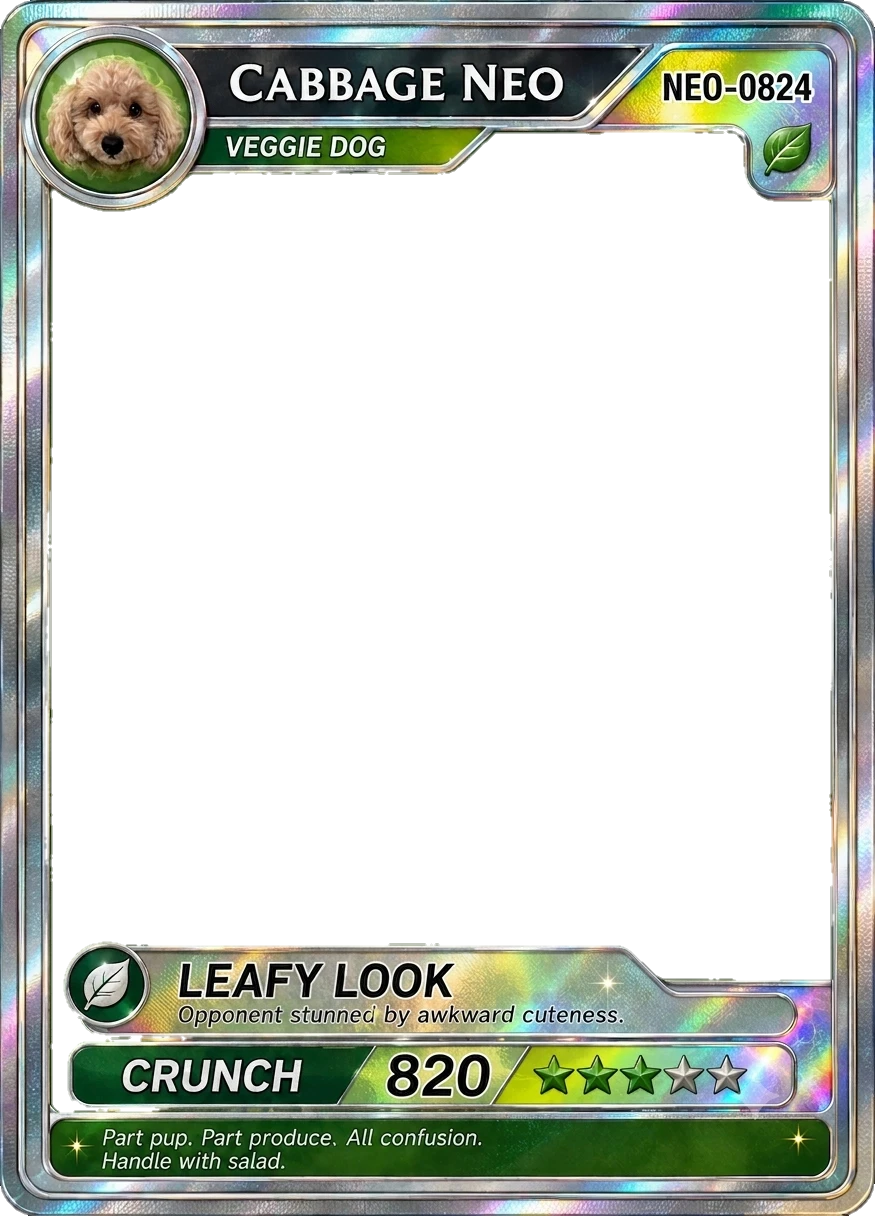
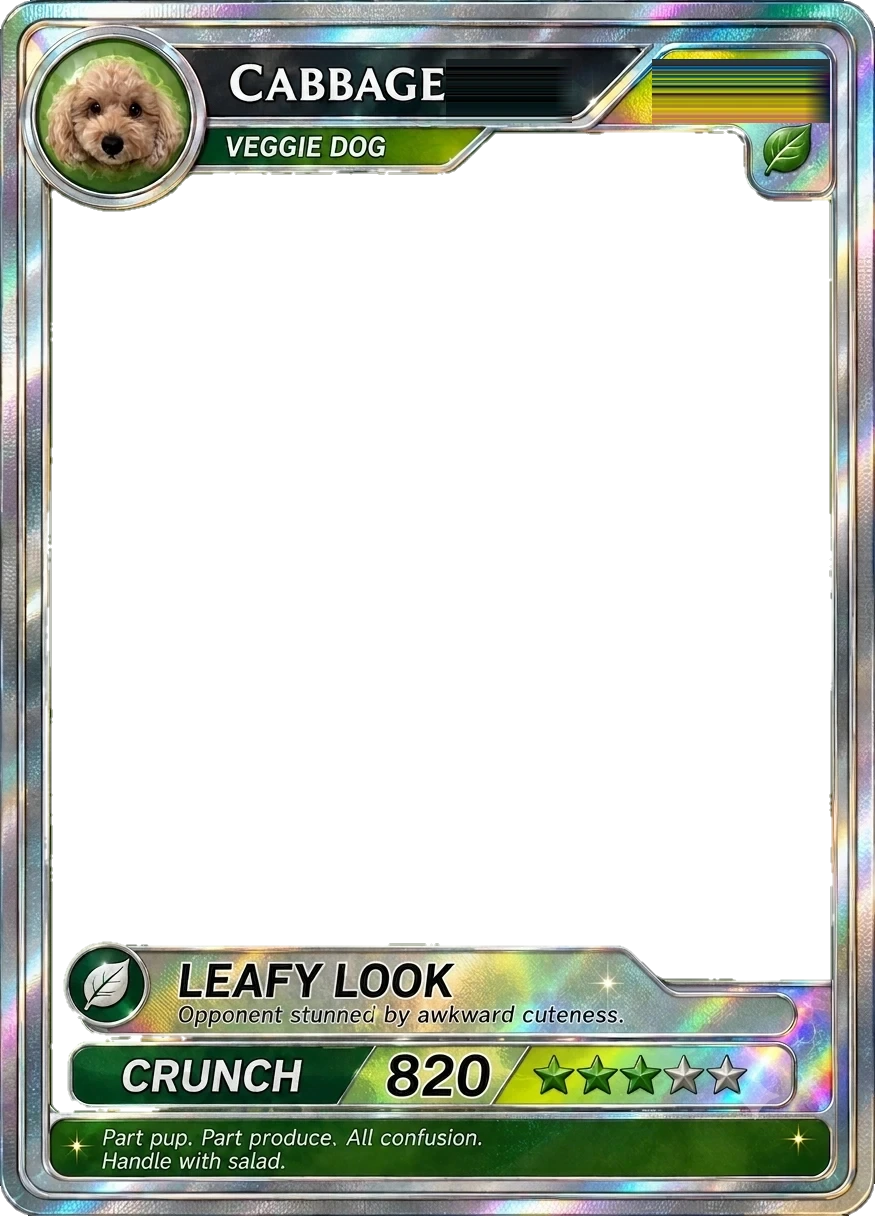
카드가 녹는 동안 창틀의 저쪽 글자가 비치던 것
진입 연출은 카드가 녹으면서 그 아래 창틀이 드러나는 그림이다. 카드는 우리 것으로
바꿨는데 창틀에는 SWEET POTATO NEO 와 NEO-0824 가 그대로 박혀 있어서, 녹는 1초 남짓
동안 저쪽 글자가 비쳤다.

창틀 세 장에서 그 두 자리를 지우고, 앱이 같은 자리에 우리 글자를 얹는다.

## 자리는 손으로 쟀다

창틀은 카드와 크기도 비율도 다른 별도 렌더라(고구마 창틀 1067x1474 vs 카드 816x1125)
CardSlots.kt 의 좌표를 그대로 못 쓴다.

자동으로 찾아보려다 접었다. 은색 프레임의 가로 레일이 글자만큼 밝아서 낱말이 뭉치거나
쪼개졌다 - 상추만 제대로 잡혔다. 눈금을 얹어 놓고 읽는 편이 빨랐다. 셋뿐이다.

지우는 방법은 name_slot.py 와 같다. 왼쪽 여러 칸 중 가장 어두운 색을 오른쪽으로 늘인다.
한 칸만 보면 야채 글자의 흰 번짐이 걸려 지운 자리가 하얘지고 흰 글씨가 묻힌다.

## 자리가 맞는 근거

창틀은 카드 자리에 카드 크기로 그려진다. 둘의 비율이 사실상 같아서(고구마 0.724 vs
0.725, 배추 0.719 vs 0.720, 상추 0.800 vs 0.800) 창틀 기준 % 가 그대로 맞는다.
지운 자리에 같은 % 로 글자를 얹어 CABBAGE 네옹 · DG-0315 가 되는 것을 확인했다.

assembleRelease / testDebugUnitTest 통과.

Changed region(s): [[0.7406, 0.0312, 0.9566, 0.125], [0.4937, 0.0312, 0.648, 0.125]]

diff --git a/app/src/main/java/com/daengs/app/ui/dex/Immersive.kt b/app/src/main/java/com/daengs/app/ui/dex/Immersive.kt
@@ -4,6 +4,7 @@ import androidx.compose.ui.graphics.ImageBitmap
 import com.daengs.app.ui.dogcard.CardFace
 import com.daengs.app.ui.dogcard.CardTemplate
 import com.daengs.app.ui.dogcard.Hole
+import com.daengs.app.ui.dogcard.Slot
 import androidx.compose.animation.core.LinearEasing
 import androidx.compose.animation.core.animateFloatAsState
 import androidx.compose.animation.core.infiniteRepeatable
@@ -74,6 +75,15 @@ data class ImmersiveScene(
      * 녹으면 드러나서 **창틀**이 된다. 없으면(`null`) 예전처럼 카드가 녹기만 한다.
      */
     val frame: String?,
+    /**
+     * 창틀에 우리 글자를 찍을 자리. **창틀 크기 대비 %** 다.
+     *
+     * 카드의 자리를 그대로 못 쓴다 — 창틀은 카드와 크기도 비율도 다른 별도 렌더다
+     * (고구마 창틀 1067x1474 vs 카드 816x1125). `tools/punch_card_frame.py` 가
+     * 저쪽 글자를 지우면서 같은 값을 쓴다.
+     */
+    val frameName: Slot? = null,
+    val frameCode: Slot? = null,
     /**
      * 배경음. `assets/` 아래 경로이고, null 이면 무음이다.
      *
@@ -179,6 +189,8 @@ val CABBAGE_SCENE = ImmersiveScene(
     subject = "neo-hologram/art/cabbage-subject.webp",
     card = "neo-hologram/art/cabbage-card.webp",
     frame = "neo-hologram/art/cabbage-card-frame.webp",
+    frameName = Slot(51.5f, 5.2f, 65.0f, 9.8f),
+    frameCode = Slot(75.0f, 5.2f, 94.5f, 9.8f),
     bgm = bgmFor("cabbage"),
     window = ImmersiveScene.Win(4.91f, 10.28f, 90.51f, 81.58f),
     fit = ImmersiveScene.Fit(6.06f, 14.15f, 87.43f, 62.70f),
@@ -206,6 +218,8 @@ val SWEET_POTATO_SCENE = ImmersiveScene(
     subject = "neo-hologram/art/sweet-potato-subject.webp",
     card = "neo-hologram/art/sweet-potato-card.webp",
     frame = "neo-hologram/art/sweet-potato-card-frame.webp",
+    frameName = Slot(58.8f, 5.2f, 70.0f, 9.8f),
+    frameCode = Slot(73.5f, 5.2f, 93.0f, 9.8f),
     bgm = bgmFor("sweet-potato"),
     window = ImmersiveScene.Win(6.28f, 10.85f, 88.57f, 81.61f),
     fit = ImmersiveScene.Fit(11.52f, 14.93f, 80.02f, 62.84f),
@@ -235,6 +249,8 @@ val LETTUCE_SCENE = ImmersiveScene(
     subject = "neo-hologram/art/lettuce-subject.webp",
     card = "neo-hologram/art/lettuce-card.webp",
     frame = "neo-hologram/art/lettuce-card-frame.webp",
+    frameName = Slot(53.8f, 5.4f, 67.0f, 9.4f),
+    frameCode = Slot(75.5f, 5.2f, 95.0f, 9.4f),
     bgm = bgmFor("lettuce"),
     window = ImmersiveScene.Win(5.17f, 11.55f, 90.46f, 76.39f),
     fit = ImmersiveScene.Fit(11.22f, 15.47f, 80.33f, 62.13f),

diff --git a/app/src/main/java/com/daengs/app/ui/dex/ImmersiveScreen.kt b/app/src/main/java/com/daengs/app/ui/dex/ImmersiveScreen.kt
@@ -2,6 +2,7 @@ package com.daengs.app.ui.dex
 
 import com.daengs.app.ui.dogcard.drawInHoleOf
 import com.daengs.app.ui.dogcard.drawPersonalCardAt
+import com.daengs.app.ui.dogcard.drawSlotTextAt
 import androidx.activity.compose.BackHandler
 import androidx.compose.animation.core.LinearEasing
 import androidx.compose.animation.core.RepeatMode
@@ -339,15 +340,18 @@ private fun DrawScope.drawStage(
             win.cx + (cardPos.x - win.cx) * k,
             win.cy + (cardPos.y - win.cy) * k,
         )
+        val fs = Size(cardSize.width * k, cardSize.height * k)
         drawImage(
             image = frame,
             dstOffset = androidx.compose.ui.unit.IntOffset(fp.x.roundToInt(), fp.y.roundToInt()),
-            dstSize = androidx.compose.ui.unit.IntSize(
-                (cardSize.width * k).roundToInt(),
-                (cardSize.height * k).roundToInt(),
-            ),
+            dstSize = androidx.compose.ui.unit.IntSize(fs.width.roundToInt(), fs.height.roundToInt()),
             filterQuality = FilterQuality.High,
         )
+        // **창틀에도 우리 글자를 얹는다.** 카드가 녹으면 그 아래가 이 틀인데, 저쪽
+        // 글자를 지워 두기만 하고 우리 것을 안 찍으면 이름 자리가 빈 채로 드러난다.
+        hero?.let {
+            drawSlotTextAt(measurer, it.name, it.code, scene.frameName, scene.frameCode, fp, fs)
+        }
     }
 
     // 카드 그림. 틀 위에 같은 자리로 얹혀 있다가 녹는다. 녹고 나면 아래의 틀이 드러나

diff --git a/app/src/main/java/com/daengs/app/ui/dogcard/CardSlots.kt b/app/src/main/java/com/daengs/app/ui/dogcard/CardSlots.kt
@@ -356,6 +356,23 @@ fun DrawScope.drawPersonalCardAt(
     drawSlotText(measurer, code, template.code, CODE, at, box)
 }
 
+/**
+ * 이름·번호판만 **임의의 사각형에** 그린다. 이머시브 창틀이 쓴다 — 창틀은 그림이
+ * 이미 비워져 있고 글자만 얹으면 된다.
+ */
+fun DrawScope.drawSlotTextAt(
+    measurer: TextMeasurer,
+    name: String,
+    code: String,
+    nameSlot: Slot?,
+    codeSlot: Slot?,
+    at: Offset,
+    box: Size,
+) {
+    drawSlotText(measurer, name, nameSlot, TITLE, at, box)
+    drawSlotText(measurer, code, codeSlot, CODE, at, box)
+}
+
 /** 이름·번호판. 카드 **위에** 그린다 — 아래에 두면 카드가 덮는다. */
 fun DrawScope.drawCardText(
     measurer: TextMeasurer,

diff --git a/tools/punch_card_frame.py b/tools/punch_card_frame.py
@@ -1,0 +1,102 @@
+#!/usr/bin/env -S uv run --script
+# /// script
+# requires-python = ">=3.11"
+# dependencies = ["pillow>=10"]
+# ///
+"""이머시브 **창틀**에서 저쪽 강아지 이름과 번호를 지운다.
+
+    uv run tools/punch_card_frame.py            # 미리 보기
+    uv run tools/punch_card_frame.py --apply    # 지운다
+
+## 왜 창틀까지 건드리나
+
+진입 연출은 카드가 **녹으면서** 그 아래의 창틀이 드러나는 그림이다. 카드는 우리 것으로
+바꿨는데(`drawPersonalCardAt`) 창틀에는 `SWEET POTATO NEO` 와 `NEO-0824` 가 그대로
+박혀 있어서, 녹는 1초 남짓 동안 저쪽 글자가 비쳤다.
+
+## 자리는 손으로 쟀다
+
+창틀은 카드와 **크기도 비율도 다른 별도 렌더**다 (고구마 창틀 1067x1474 vs 카드
+816x1125). 그래서 `CardSlots.kt` 의 좌표를 그대로 못 쓴다.
+
+자동으로 찾아보려 했는데 은색 프레임의 가로 레일이 글자만큼 밝아서 낱말이 뭉치거나
+쪼개졌다 — 상추만 제대로 잡혔다. 눈금을 얹어 놓고 읽는 편이 빨랐다. 셋뿐이다.
+
+## 지우는 방법
+
+`name_slot.py` 와 같다 — 줄마다 왼쪽 이웃 색을 오른쪽으로 늘이고 끝만 되돌린다.
+**왼쪽 여러 칸 중 가장 어두운 것**을 고른다. 한 칸만 보면 야채 글자의 흰 번짐이
+걸려서 지운 자리가 하얘지고, 그 위에 얹을 흰 글씨가 묻힌다.
+"""
+
+from __future__ import annotations
+
+import pathlib
+import sys
+
+from PIL import Image
+
+ART = pathlib.Path(__file__).resolve().parent.parent / "app/src/main/assets/neo-hologram/art"
+
+# 창틀 크기 대비 %. (x0, y0, x1, y1)
+#   name — 저쪽 강아지 이름(`NEO`)이 있던 자리. 우리 아이 이름이 여기 들어간다
+#   code — 번호판. 아이 생일에서 만든 번호가 여기 들어간다
+SLOTS = {
+    "cabbage": {"name": (51.5, 5.2, 65.0, 9.8), "code": (75.0, 5.2, 94.5, 9.8)},
+    "sweet-potato": {"name": (58.8, 5.2, 70.0, 9.8), "code": (73.5, 5.2, 93.0, 9.8)},
+    "lettuce": {"name": (53.8, 5.4, 67.0, 9.4), "code": (75.5, 5.2, 95.0, 9.4)},
+}
+
+PAD = 4          # 찾은 자리를 사방으로 이만큼 넓혀 지운다
+TAIL = 0.15      # 오른쪽 끝 이만큼만 원래 색으로 되돌린다
+LOOK = (3, 7, 12, 18, 26)   # 왼쪽 이 칸들 중 가장 어두운 색을 쓴다
+
+
+def smear(im: Image.Image, box: tuple[float, float, float, float]) -> None:
+    w, h = im.size
+    x0 = max(0, int(w * box[0] / 100) - PAD)
+    y0 = max(0, int(h * box[1] / 100) - PAD)
+    x1 = min(w, int(w * box[2] / 100) + PAD)
+    y1 = min(h, int(h * box[3] / 100) + PAD)
+    px = im.load()
+    span = max(1, x1 - x0)
+    tail = max(1, int(span * TAIL))
+
+    def darkest(at: int, y: int, sign: int):
+        best = None
+        for d in LOOK:
+            c = px[min(w - 1, max(0, at + sign * d)), y]
+            if best is None or sum(c[:3]) < sum(best[:3]):
+                best = c
+        return best
+
+    for y in range(y0, y1):
+        left = darkest(x0, y, -1)
+        right = darkest(x1, y, +1)
+        for x in range(x0, x1):
+            over = x - (x1 - tail)
+            t = 0.0 if over < 0 else over / tail
+            px[x, y] = tuple(int(left[c] + (right[c] - left[c]) * t) for c in range(4))
+
+
+def main() -> None:
+    apply = "--apply" in sys.argv
+    for vid, slots in SLOTS.items():
+        path = ART / f"{vid}-card-frame.webp"
+        if not path.exists():
+            print(f"{vid:14s} 창틀이 없다")
+            continue
+        im = Image.open(path).convert("RGBA")
+        for box in slots.values():
+            smear(im, box)
+        print(
+            f"{vid:14s} name={slots['name']}  code={slots['code']}  ({im.width}x{im.height})"
+        )
+        if apply:
+            im.save(path, "WEBP", quality=92, method=6)
+    if not apply:
+        print("\n--apply 를 안 줘서 파일은 그대로다.")
+
+
+if __name__ == "__main__":
+    main()
